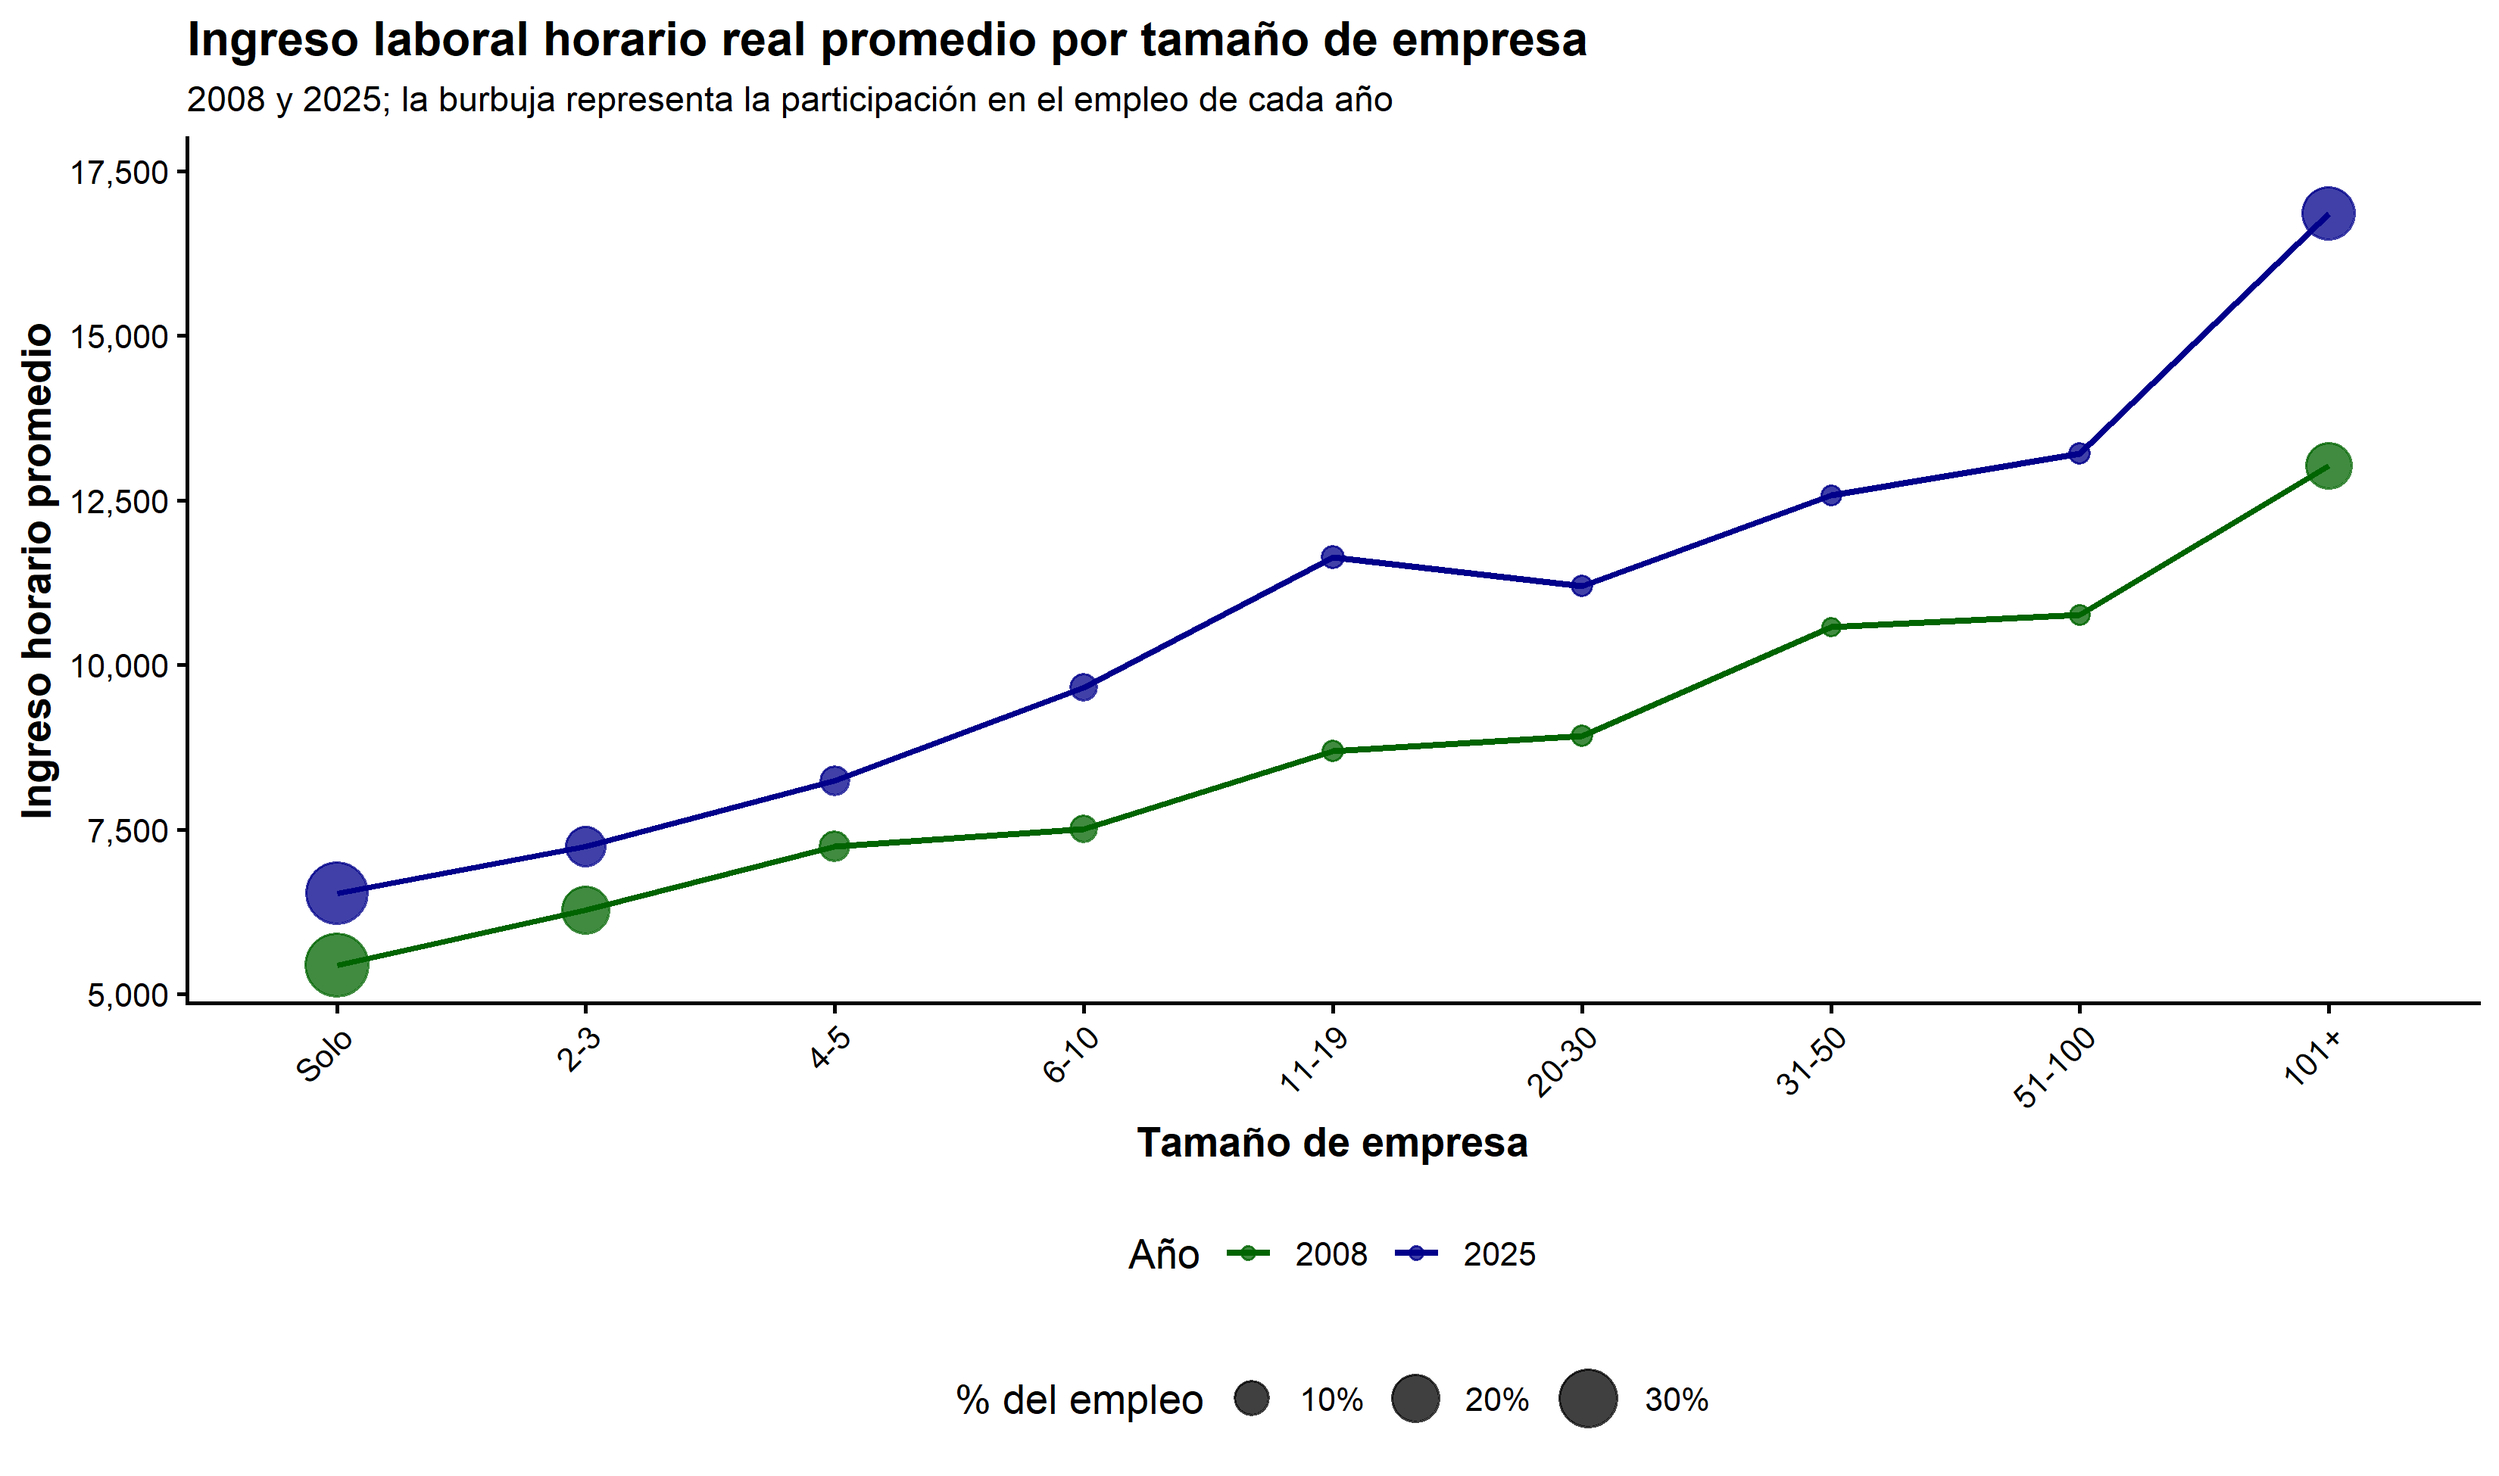
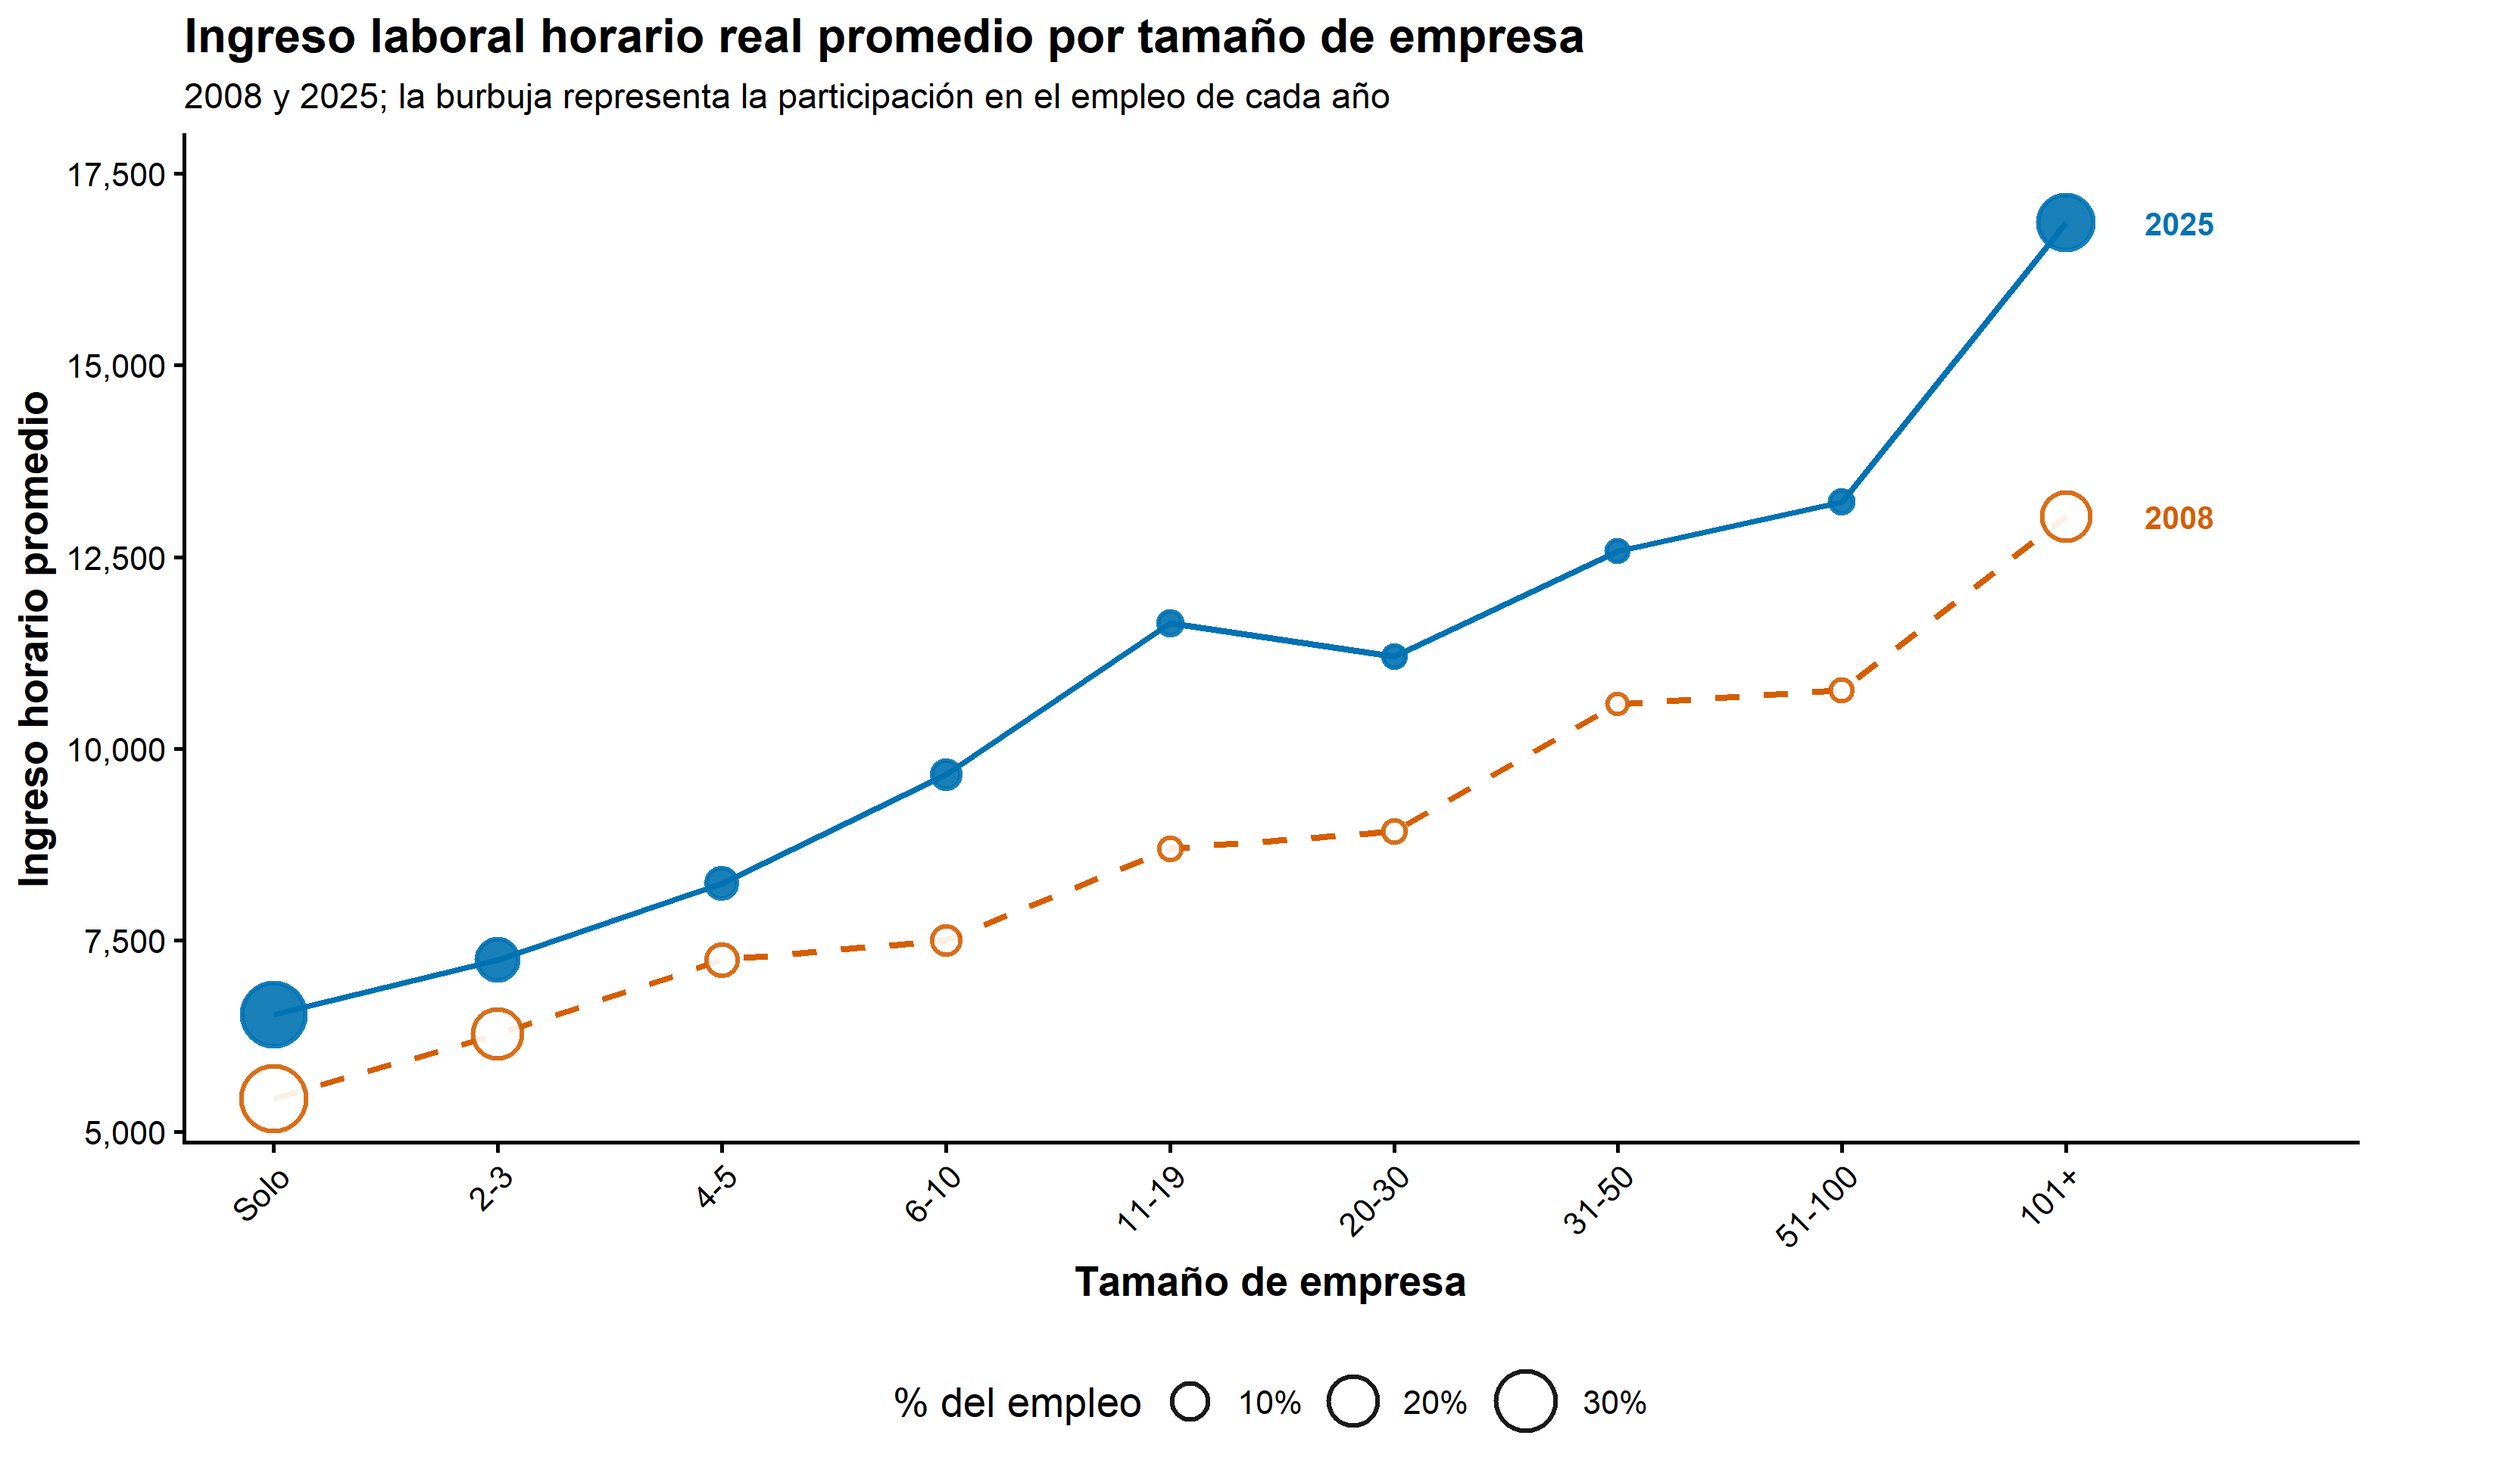
Improve endpoint wage figure styling

diff --git a/Paper/sections/descriptive_statistics.tex b/Paper/sections/descriptive_statistics.tex
@@ -18,7 +18,7 @@ The bubble sizes show that these are not comparisons among negligible cells: sol
 \begin{figure}[htbp]
   \centering
   \includegraphics[width=0.95\textwidth]{fig65_\figurelang.png}
-  \caption{Mean real hourly income by firm size, 2008 and 2025; bubble size shows each firm-size category's employment share}
+  \caption{Mean real hourly income by firm size, 2008 and 2025; dashed hollow markers denote 2008, solid filled markers denote 2025, and bubble size shows each firm-size category's employment share}
   \label{fig:income-mean-comparison}
 \end{figure}
 
